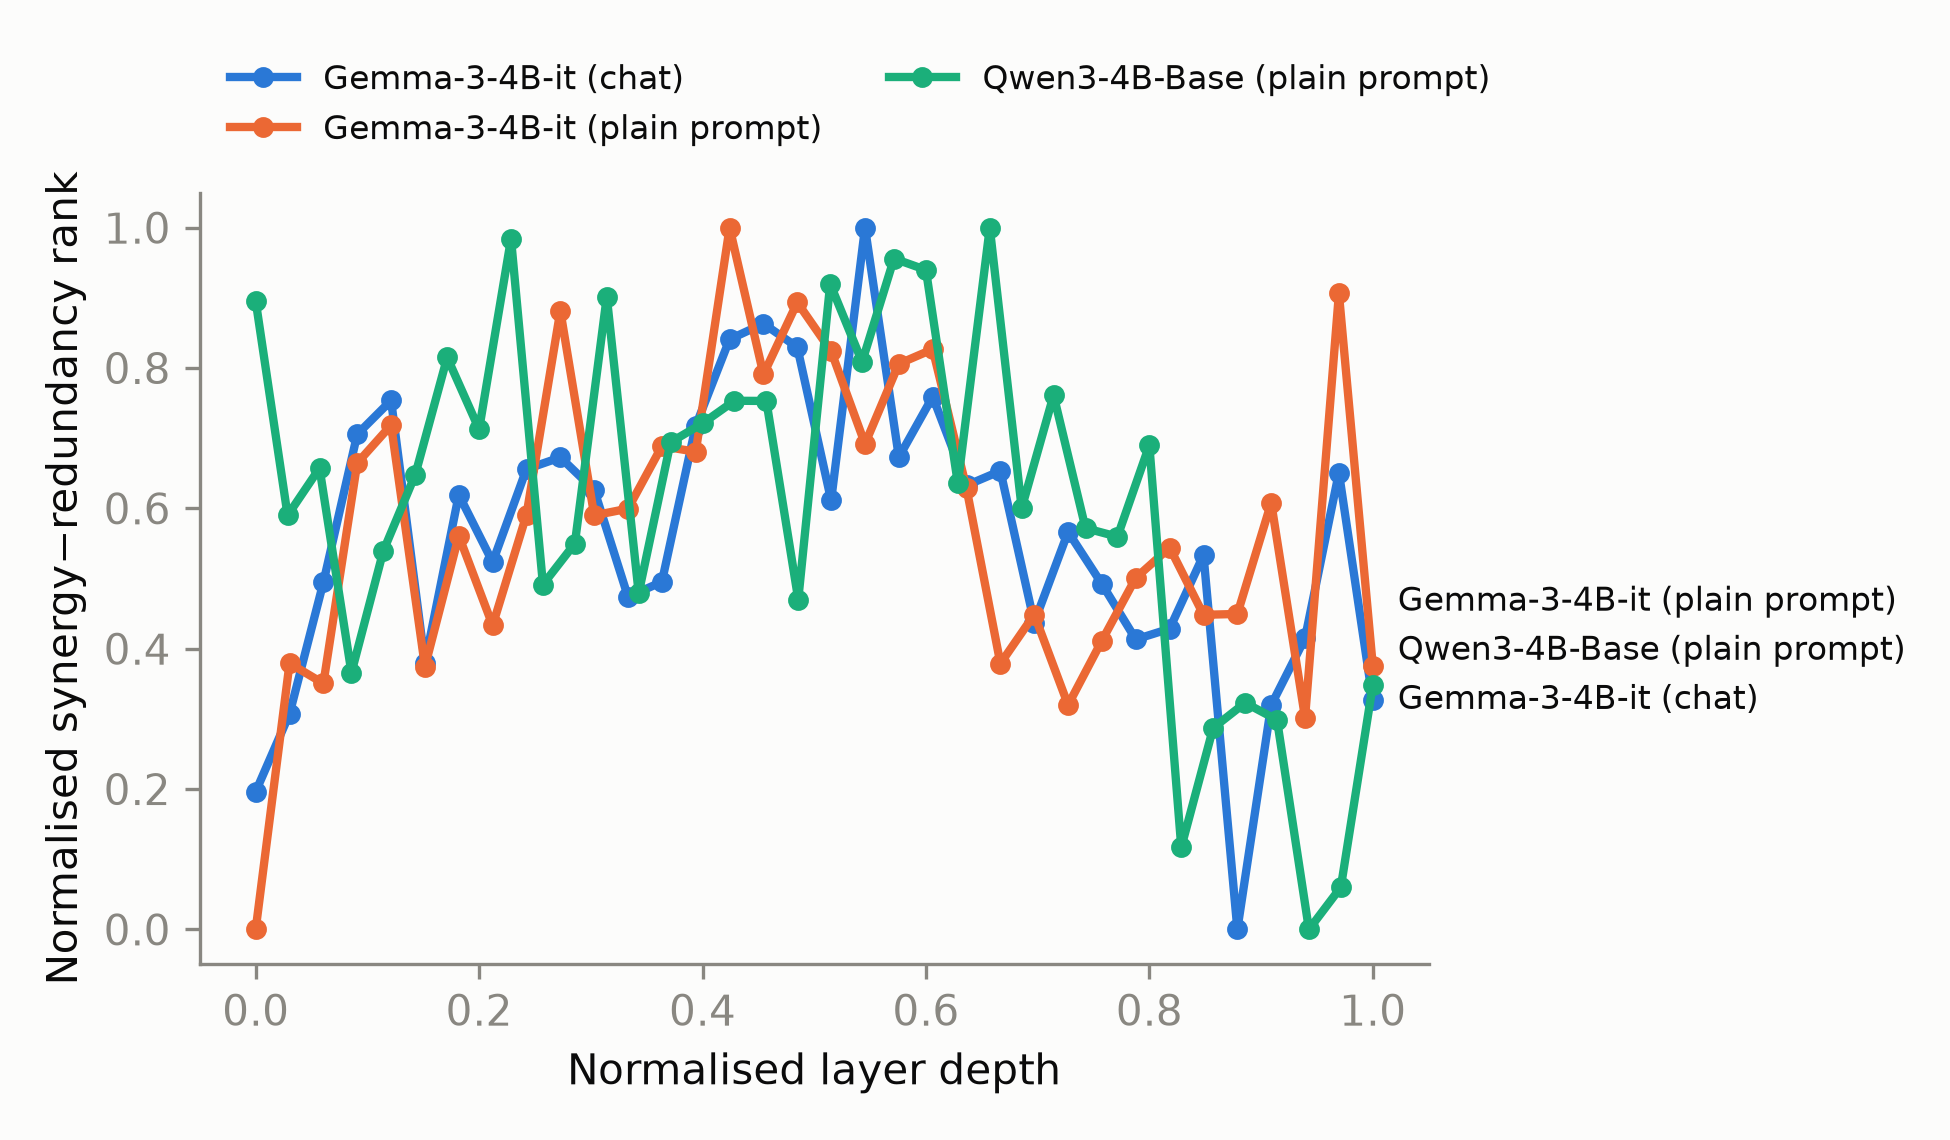
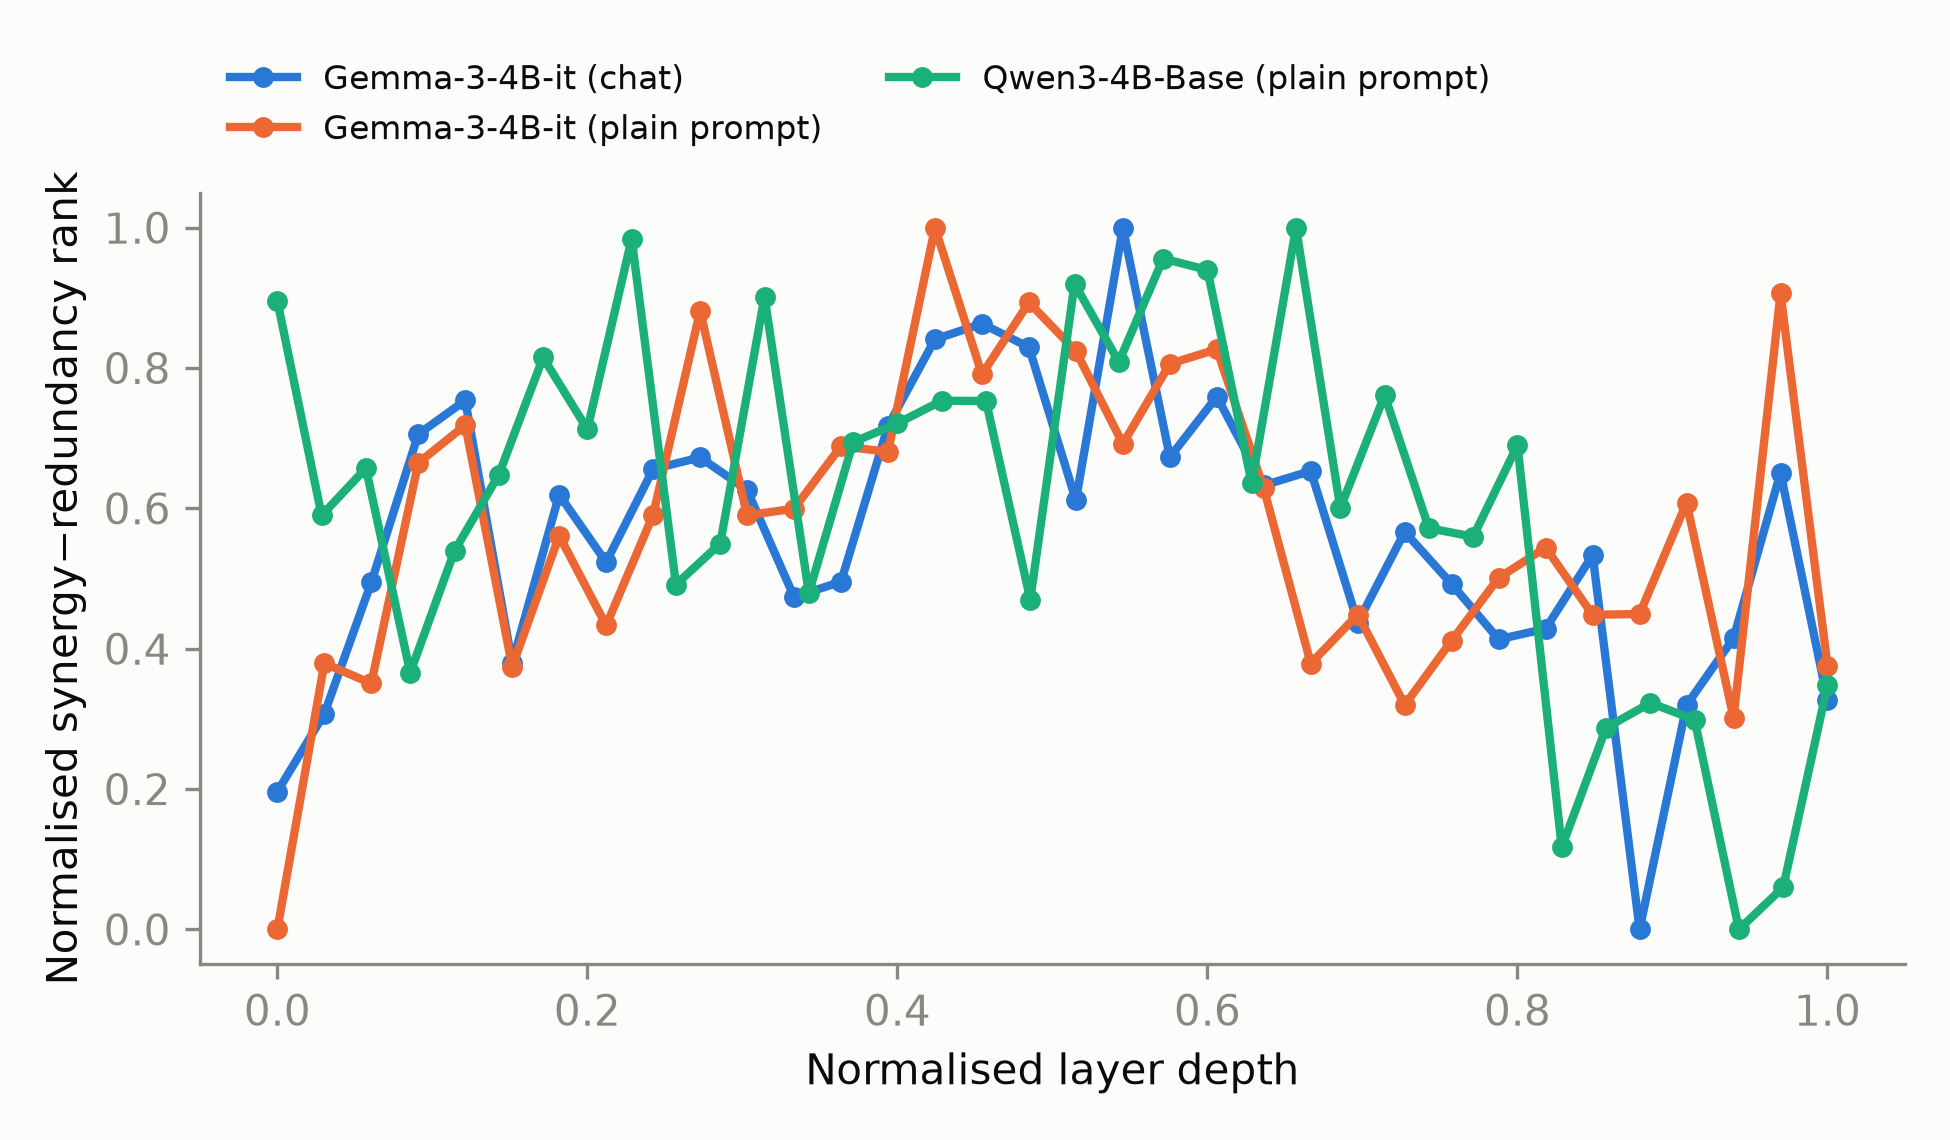
plots: Fig 2c legend only, no end-of-line labels

diff --git a/src/syncore/plots.py b/src/syncore/plots.py
@@ -80,17 +80,9 @@ def fig2ab(S, R, rank, n_layers, title, path):
 def fig2c(runs: dict, path):
     """runs: name -> (rank, n_layers). Normalised mean rank per layer vs normalised depth."""
     fig, ax = plt.subplots(figsize=(6.5, 3.8))
-    ends = []
     for color, (name, (rank, n_layers)) in zip(SERIES, runs.items()):
-        prof = layer_profile(rank, n_layers)
-        x = np.linspace(0, 1, n_layers)
-        ax.plot(x, prof, color=color, marker="o", markersize=4, label=name)
-        ends.append([prof[-1], name])
-    ends.sort()
-    for k in range(1, len(ends)):  # push end labels apart so they don't overlap
-        ends[k][0] = max(ends[k][0], ends[k - 1][0] + 0.07)
-    for y, name in ends:
-        ax.annotate(name, (1.0, y), xytext=(6, 0), textcoords="offset points", color=INK, fontsize=8, va="center")
+        ax.plot(np.linspace(0, 1, n_layers), layer_profile(rank, n_layers), color=color, marker="o", markersize=4,
+                label=name)
     ax.set_xlabel("Normalised layer depth")
     ax.set_ylabel("Normalised synergy−redundancy rank")
     ax.set_ylim(-0.05, 1.05)
